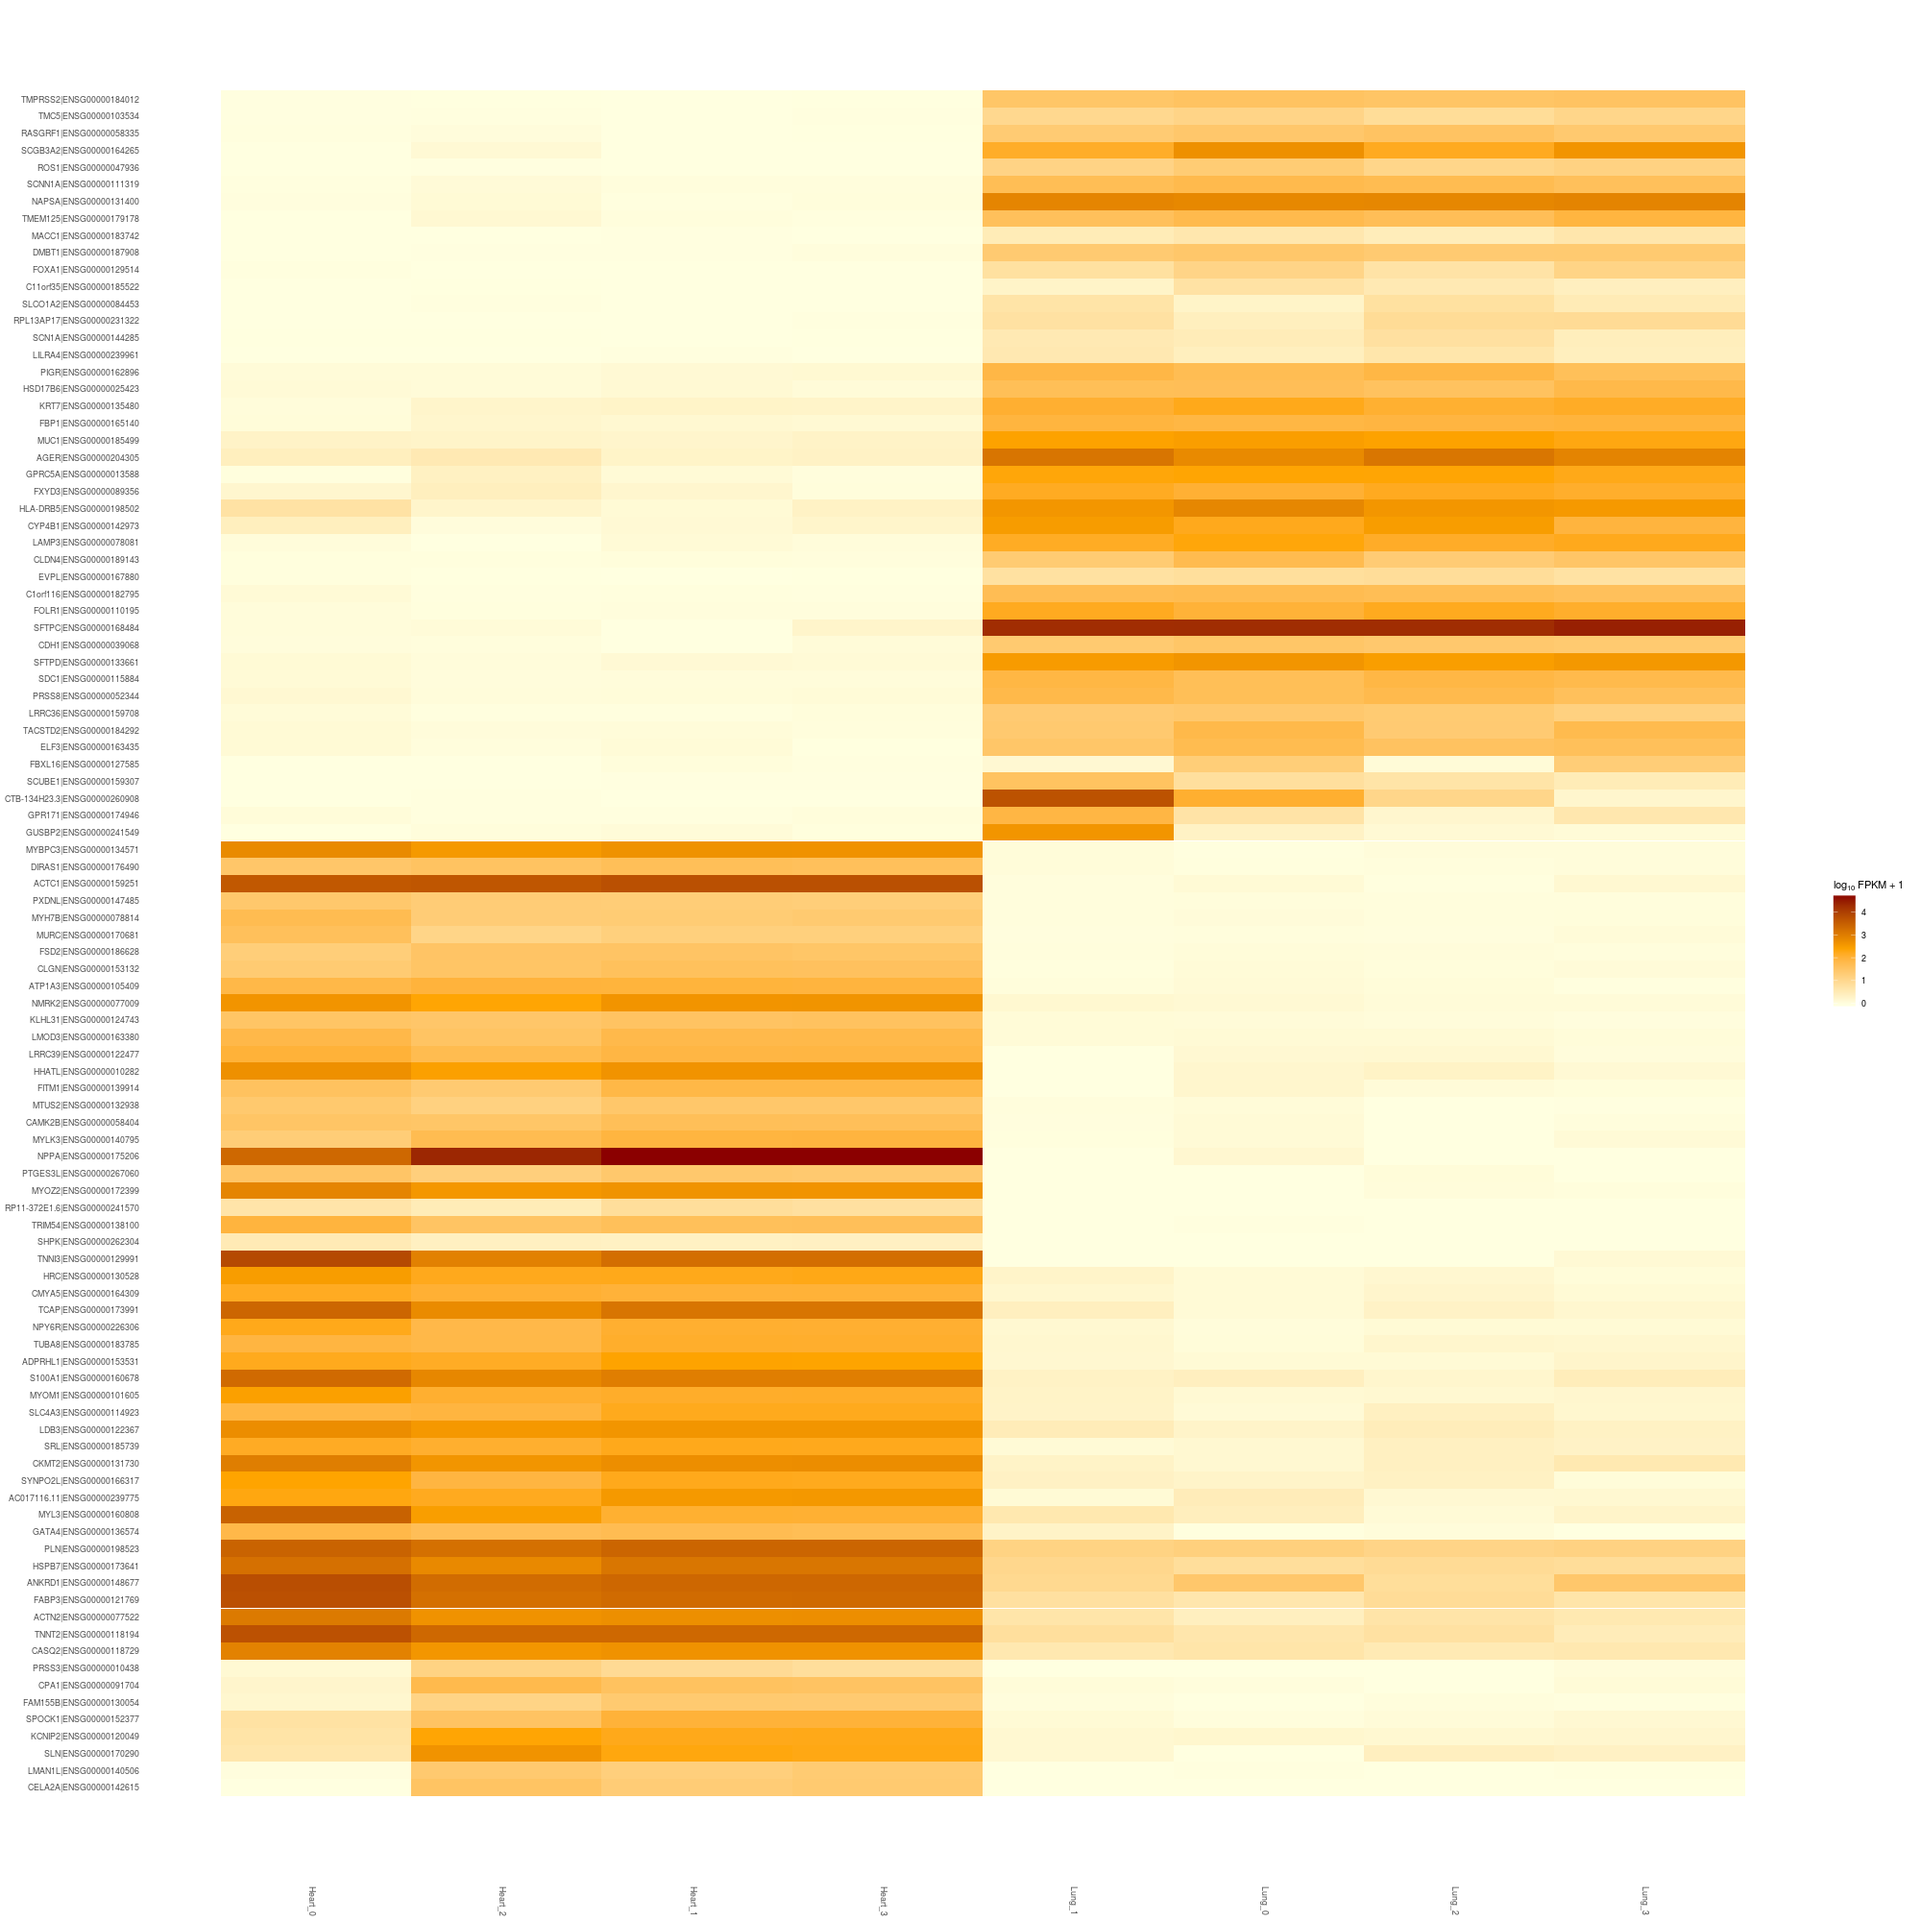
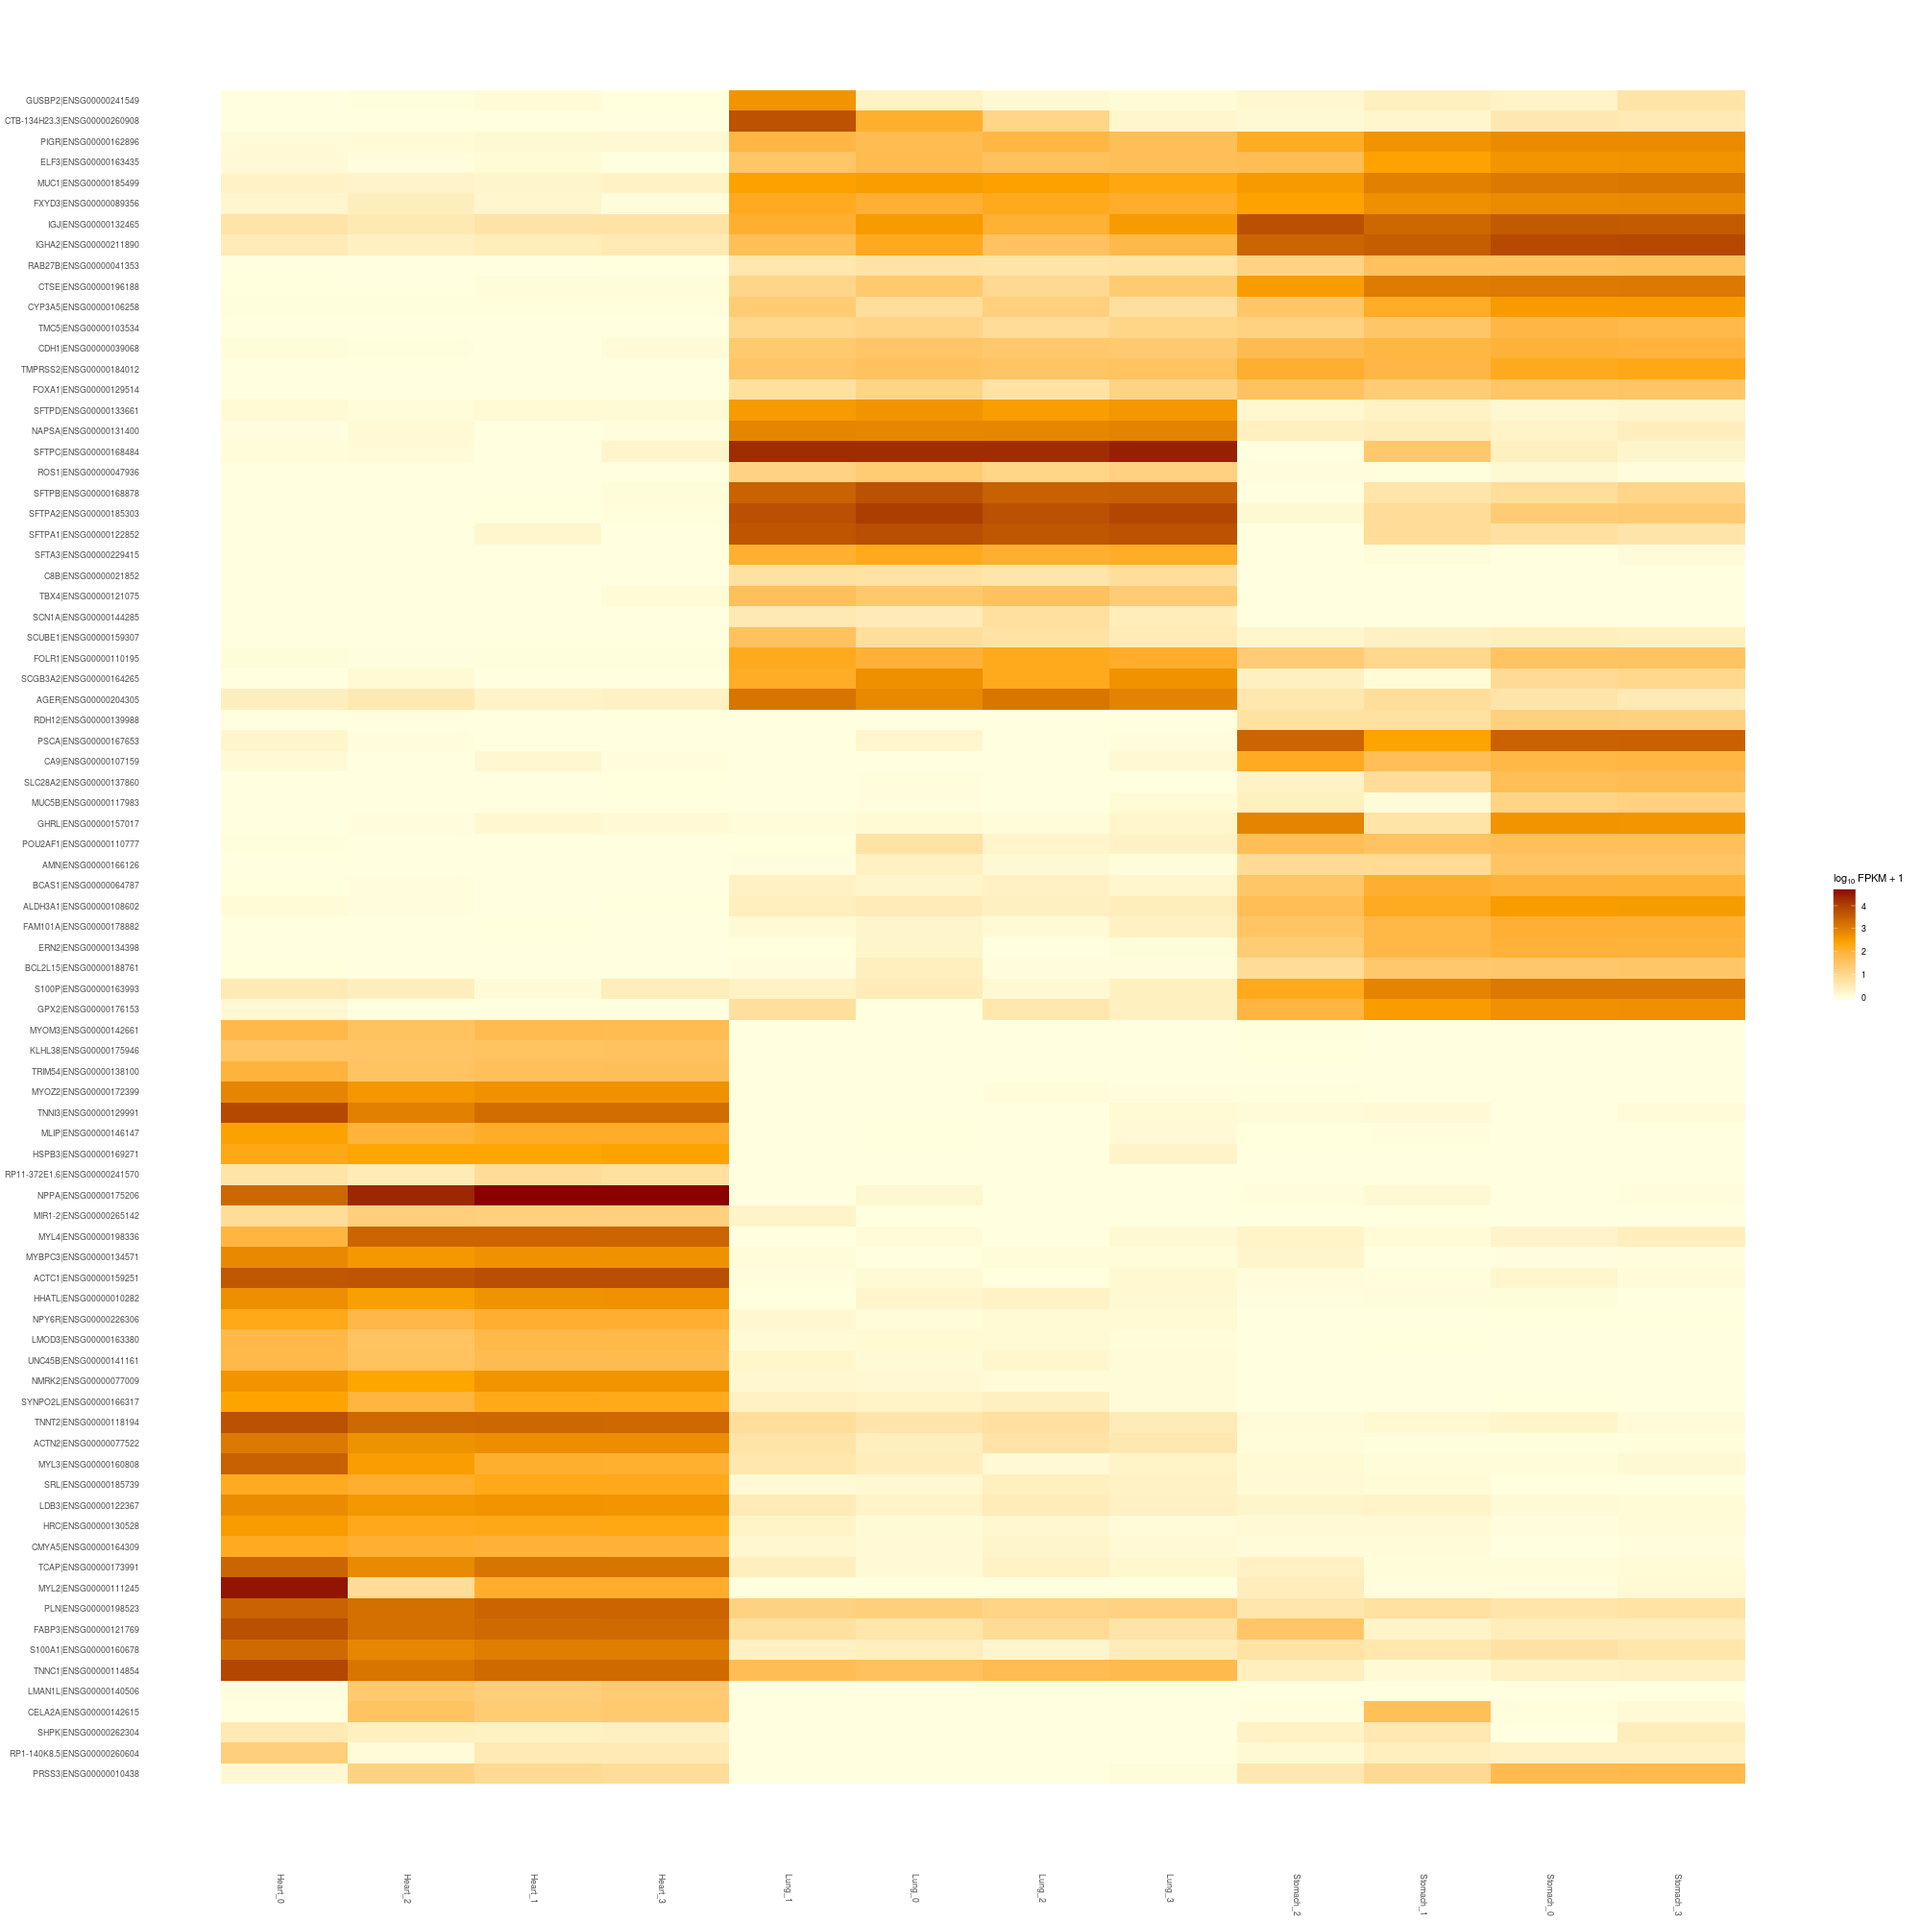
Continue

diff --git a/rstudio_cummerbund/README.md b/rstudio_cummerbund/README.md
@@ -97,15 +97,6 @@ or in this GitHub repository.
 
 0. Download and extract the cuffdiff example data.
 
-    0. cuffdiff lung-stomach
-       ftp://public:public@176.28.21.178/2014fagerberg/cuffdiff_out_lung-stomach 
-    
-    0. cuffdiff lung-heart
-       ftp://public:public@176.28.21.178/2014fagerberg/cuffdiff_out_lung-heart 
-    
-    0. cuffdiff stomach-heart
-       ftp://public:public@176.28.21.178/2014fagerberg/cuffdiff_out_stomach-heart 
-
 0. Change your working directory to the `cuffdiff_out` directory.
     
 0. Load the `cummeRbund` library:
@@ -258,11 +249,15 @@ or in this GitHub repository.
      
         > expressionBarplot(genes2)
         
-    ![pic](../figs/expressionBarplot.png)
+    ![pic](../figs/expressionbarplot.png)
            
         > csDistHeat(genes(cuff), replicates=T)
         
        ![pic](../figs/csdistheat.png)
+       
+       > csDistHeat(genes(cuff), replicates=F)
+        
+       ![pic](../figs/csdistheat2.png)
        
         > MDSplot(genes(cuff), replicates=T)
        
